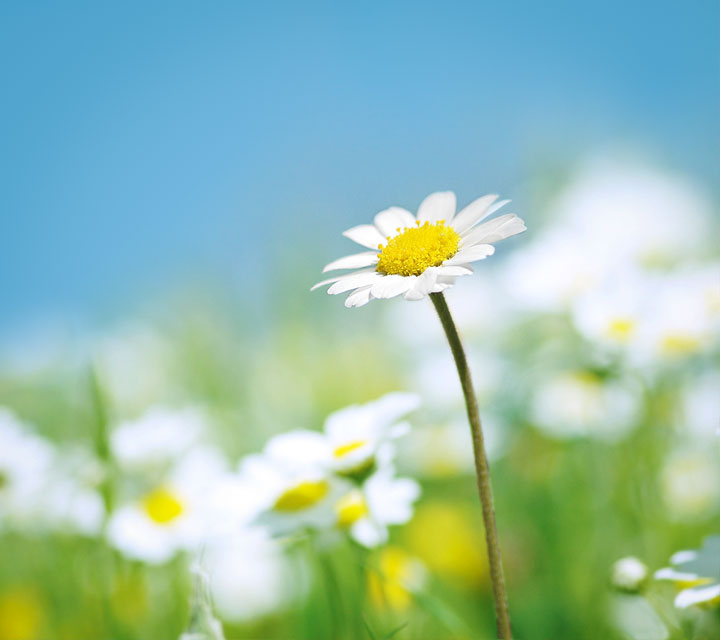
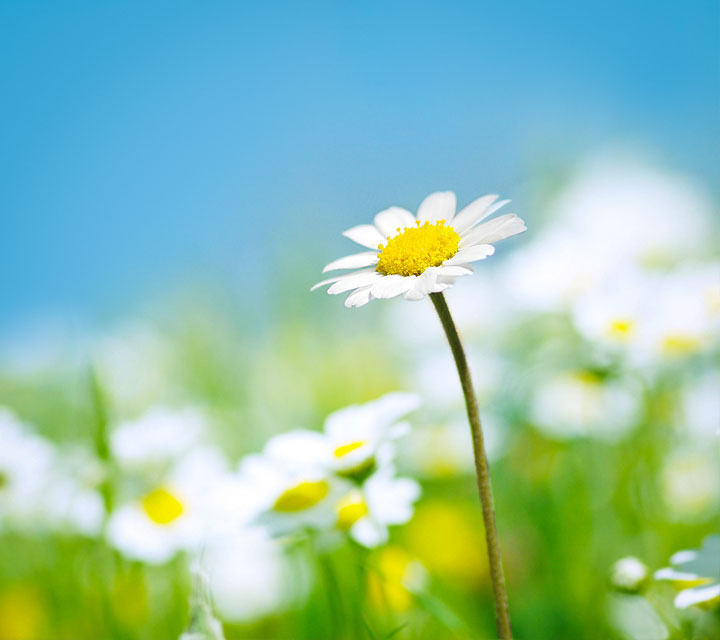
class names and tweaks

diff --git a/new.html b/new.html
@@ -184,25 +184,25 @@ width: calc(100% * 0.5);
 }
 /* row four */
     
-.kendra-container {
+.mental-health-container {
     display: flex;
     max-width: 1440px;
     min-height: 640px;
     margin: 30px auto 0 auto;
 }
-.kendra-wrapper {
+.mental-health-wrapper {
     margin: 0 auto;
     display: flex;
     width: 100%;
 }
-.kendra-image {
-    background: #fff url("daisy.jpg") top left/cover;
+.mental-health-image {
+    background: #fff url("daisy.jpg") top right/cover;
 width: calc(100% * 0.5);
     display: flex;
     flex-direction: column;
     justify-content: center;
 }
-.kendra-info {
+.mental-health-info {
     background: #419400;
     color: #fff;
 width: calc(100% * 0.5);
@@ -213,11 +213,11 @@ width: calc(100% * 0.5);
     font-size: 22px;
     text-align: center;
 }
-.kendra-info > div {
+.mental-health-info > div {
     max-width: 480px;
     margin: 0 auto;
 }
-.kendra-info h1 {
+.mental-health-info h1 {
     color: #fff;
     font-size: 42px;
     font-weight: 500;
@@ -226,25 +226,25 @@ width: calc(100% * 0.5);
 }
 
 @media (max-width: 950px) {
-.jones-container, .summer-authors-container, .srp-container, .kendra-container {
+.jones-container, .summer-authors-container, .srp-container, .mental-health-container {
     max-width: 720px;
 }
-.jones-wrapper, .summer-authors-wrapper, .srp-wrapper, .kendra-wrapper {
+.jones-wrapper, .summer-authors-wrapper, .srp-wrapper, .mental-health-wrapper {
     flex-direction: column;
 }
-.jones-image, .jones-info, .summer-authors-image, .summer-authors-info, .srp-image, .srp-info, .kendra-image, .kendra-info {
+.jones-image, .jones-info, .summer-authors-image, .summer-authors-info, .srp-image, .srp-info, .mental-health-image, .mental-health-info {
     width: 100%;
 }
-.summer-authors-info, .srp-info, .kendra-info {
+.summer-authors-info, .srp-info, .mental-health-info {
     order: 2;
 }
-.summer-authors-image, .srp-image, .kendra-image {
+.summer-authors-image, .srp-image, .mental-health-image {
 order 1;
 }
 .srp-image {
     height: 575px;
 }
-.kendra-image {
+.mental-health-image {
     height: 500px;
 }
 .summer-authors-image {
@@ -473,14 +473,14 @@ height="0" width="0" style="display:none;visibility:hidden"></iframe>
         </div>
       </div>
     </div>
-    <div class="kendra-container">
-      <div class="kendra-wrapper">
-        <div class="kendra-info">
+    <div class="mental-health-container">
+      <div class="mental-health-wrapper">
+        <div class="mental-health-info">
           <h1>Mental Health<br>
             Awareness Month</h1>
           <div><a class="white text-underline" href="https://dcl.bibliocommons.com/list/share/692285487_dclteens/2520515249">10 Empathetic Novels</a></div>
         </div>
-        <div class="kendra-image"> </div>
+        <div class="mental-health-image"> </div>
       </div>
     </div>
   </div>
